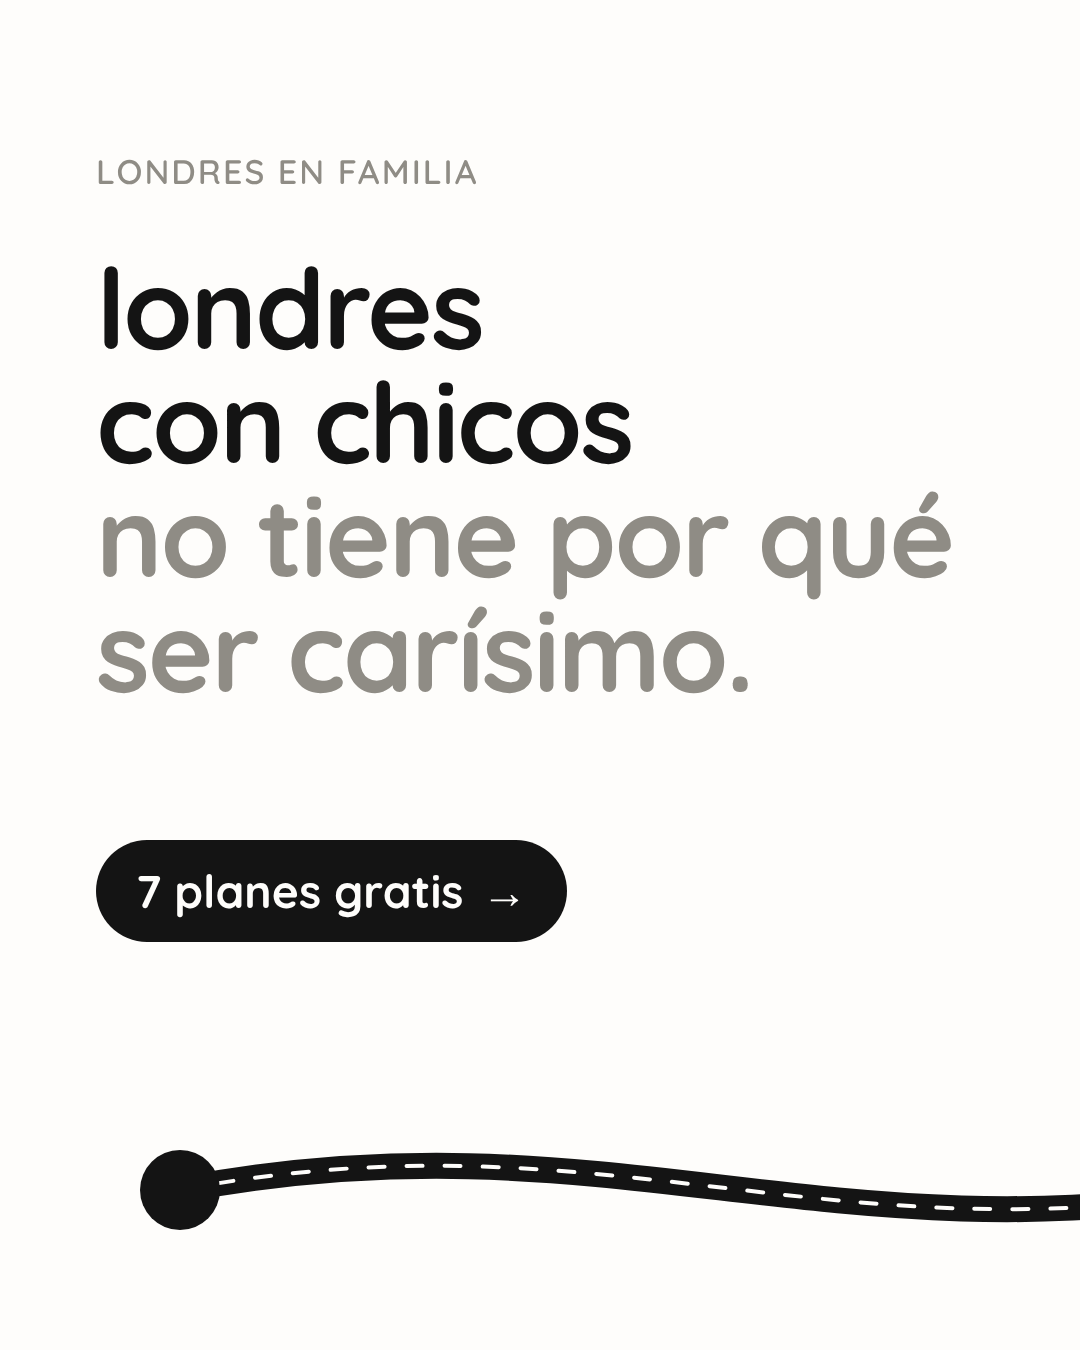
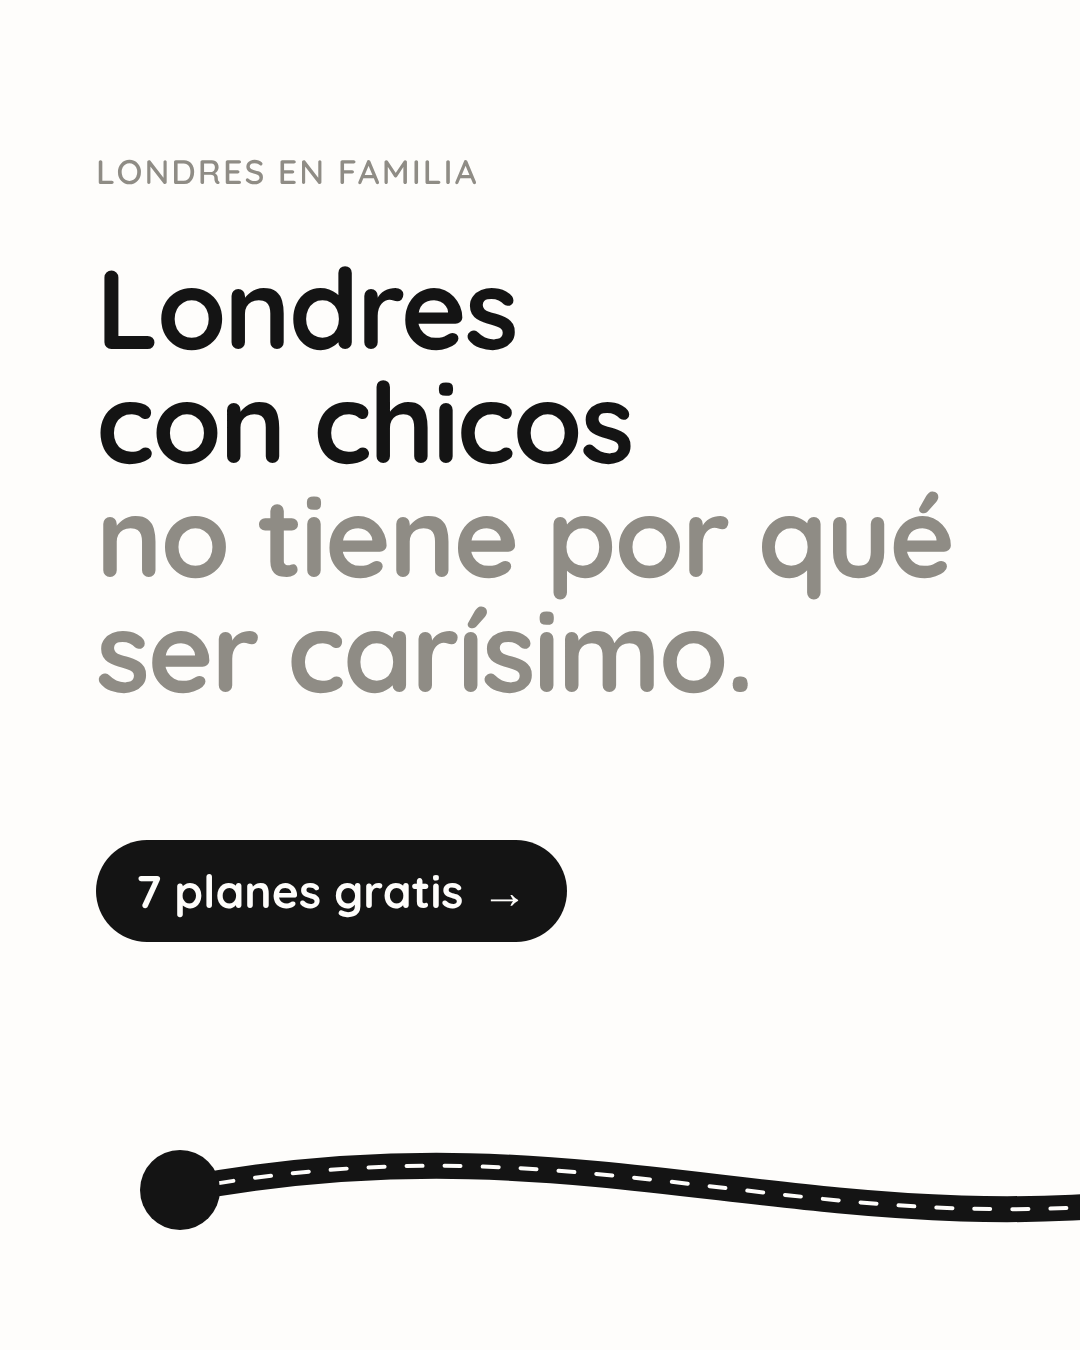
Capitalize Londres in day-2 carousel and day-1 reel source
Claude-Session: https://claude.ai/code/session_0142hUDvfbcwRGKaGevH8s16

Changed region(s): [[0.0917, 0.1867, 0.4889, 0.28]]

diff --git a/reel-dia1/comp.html b/reel-dia1/comp.html
@@ -52,7 +52,7 @@ body{font-family:'Q',system-ui,sans-serif;color:var(--ink);font-weight:700}
   <div id="c1" class="abs ctr h1" style="top:560px">vamos por partes</div>
   <!-- E/F · list -->
   <div id="e1" class="abs h1">tu planilla</div>
-  <div id="e2" class="abs tag">londres · 7 noches · 2 adultos + 1 chico</div>
+  <div id="e2" class="abs tag">Londres · 7 noches · 2 adultos + 1 chico</div>
   <div id="hLo" class="abs colh">temp. baja</div><div id="hHi" class="abs colh">temp. alta</div>
   <div id="rule" class="rule"></div>
   <div id="tW" class="abs num" style="font-size:48px">total aprox.</div><div id="tLo" class="abs num" style="font-size:42px">US$ 8.700</div><div id="tHi" class="abs num" style="font-size:42px">US$ 13.900</div>
@@ -112,7 +112,7 @@ const ICONS={
 
 const $=id=>document.getElementById(id);
 // hook word "londres" as letters
-const lonL=[...'londres'].map(ch=>{const s=document.createElement('span');s.textContent=ch;$('lon').appendChild(s);return s;});
+const lonL=[...'Londres'].map(ch=>{const s=document.createElement('span');s.textContent=ch;$('lon').appendChild(s);return s;});
 // stop labels + tags
 STOPS.forEach((s,i)=>{
   const d=document.createElement('div'); d.className='abs lab'; d.innerHTML=`<svg viewBox="0 0 64 64" fill="currentColor">${ICONS[s.icon]}</svg><span>${s.w}</span>`; $('labs').appendChild(d); s.el=d;

diff --git a/carrusel-dia2/carrusel.html b/carrusel-dia2/carrusel.html
@@ -35,7 +35,7 @@ svg.road{position:absolute;left:0;top:0}
 <!-- P1 -->
 <div class="s" style="left:0">
   <div class="pad" style="top:150px"><div class="kick">LONDRES EN FAMILIA</div></div>
-  <div class="pad t1" style="top:250px">londres<br>con chicos<br><span class="m">no tiene por qué ser carísimo.</span></div>
+  <div class="pad t1" style="top:250px">Londres<br>con chicos<br><span class="m">no tiene por qué ser carísimo.</span></div>
   <div class="pad" style="top:840px"><div class="pill">7 planes gratis <span>→</span></div></div>
 </div>
 <!-- P2 -->
